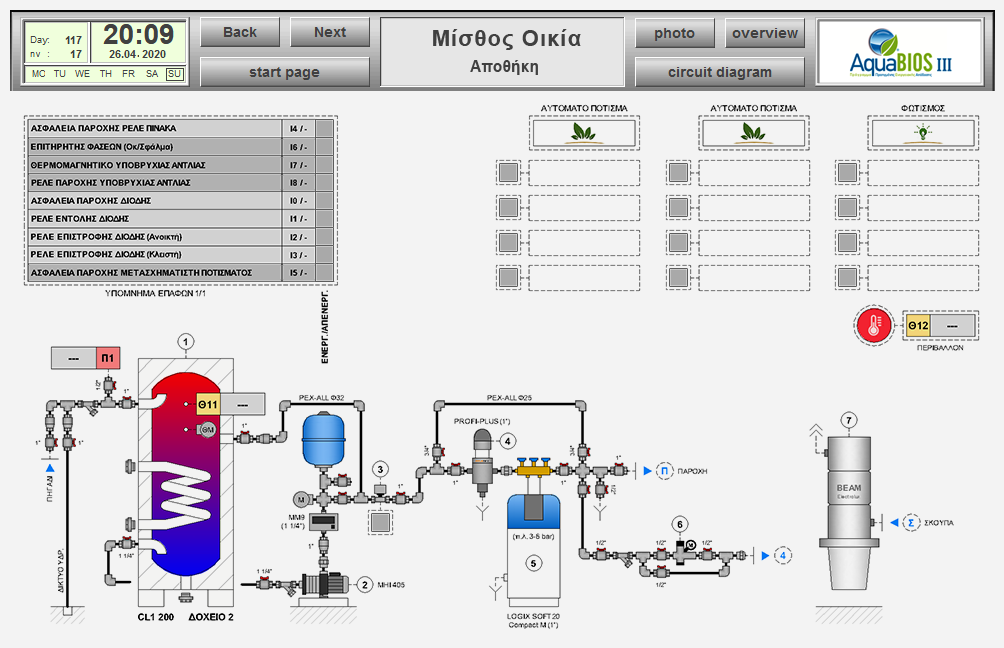
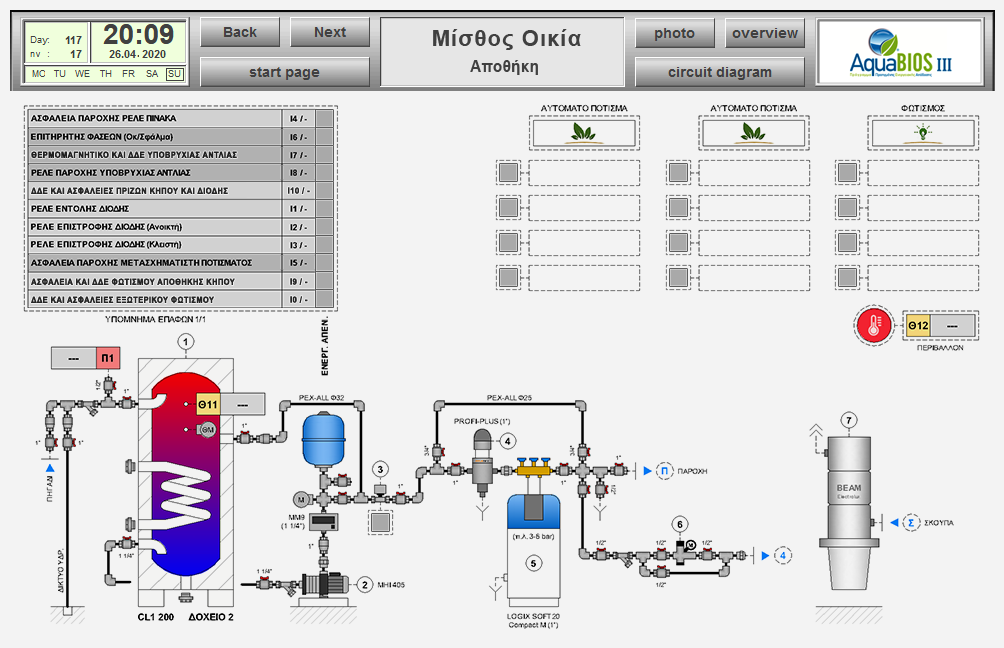
ADD DDE

Changed region(s): [[0.0, 0.1543, 0.3396, 0.5864]]

diff --git a/misthos/mhxanostasio.html b/misthos/mhxanostasio.html
@@ -297,83 +297,91 @@
         <img class="custom_image" src="images/ledGrey.png">
         <img class="custom_image" src="images/ledGreen.png">
     </div>
+    <div class="custom_image_onoff" data-comname="m_pinak_i37" style="left: 317px; top: 301px;">
+        <img class="custom_image" src="images/ledRed.png">
+        <img class="custom_image" src="images/ledGreen.png">
+    </div>
+    <div class="custom_image_onoff" data-comname="m_pinak_i38" style="left: 317px; top: 319px;">
+        <img class="custom_image" src="images/ledRed.png">
+        <img class="custom_image" src="images/ledGreen.png">
+    </div>
 
     <!-- PINAKAS 2 MHXANOSTASIO -->
-    <div class="custom_image_onoff" data-comname="m_pinak_i20" style="left: 317px; top: 334px;">
+    <div class="custom_image_onoff" data-comname="m_pinak_i20" style="left: 317px; top: 367px;">
         <img class="custom_image" src="images/ledRed.png">
         <img class="custom_image" src="images/ledGreen.png">
     </div>
-    <div class="custom_image_onoff" data-comname="m_pinak_i21" style="left: 317px; top: 352px;">
+    <div class="custom_image_onoff" data-comname="m_pinak_i21" style="left: 317px; top: 385px;">
         <img class="custom_image" src="images/ledRed.png">
         <img class="custom_image" src="images/ledGreen.png">
     </div>
-    <div class="custom_image_onoff" data-comname="m_pinak_i22" style="left: 317px; top: 370px;">
+    <div class="custom_image_onoff" data-comname="m_pinak_i22" style="left: 317px; top: 403px;">
         <img class="custom_image" src="images/ledRed.png">
         <img class="custom_image" src="images/ledGreen.png">
     </div>
-    <div class="custom_image_onoff" data-comname="m_pinak_i23" style="left: 317px; top: 388px;">
+    <div class="custom_image_onoff" data-comname="m_pinak_i23" style="left: 317px; top: 421px;">
         <img class="custom_image" src="images/ledGrey.png">
         <img class="custom_image" src="images/ledGreen.png">
     </div>
-    <div class="custom_image_onoff" data-comname="m_pinak_i36" style="left: 317px; top: 406px;">
+    <div class="custom_image_onoff" data-comname="m_pinak_i36" style="left: 317px; top: 439px;">
         <img class="custom_image" src="images/ledRed.png">
         <img class="custom_image" src="images/ledGreen.png">
     </div>
-    <div class="custom_image_onoff" data-comname="m_pinak_i28" style="left: 317px; top: 424px;">
+    <div class="custom_image_onoff" data-comname="m_pinak_i28" style="left: 317px; top: 457px;">
         <img class="custom_image" src="images/ledRed.png">
         <img class="custom_image" src="images/ledGreen.png">
     </div>
-    <div class="custom_image_onoff" data-comname="m_pinak_i31" style="left: 317px; top: 442px;">
+    <div class="custom_image_onoff" data-comname="m_pinak_i31" style="left: 317px; top: 475px;">
         <img class="custom_image" src="images/ledGrey.png">
         <img class="custom_image" src="images/ledGreen.png">
     </div>
-    <div class="custom_image_onoff" data-comname="m_pinak_i32" style="left: 317px; top: 460px;">
+    <div class="custom_image_onoff" data-comname="m_pinak_i32" style="left: 317px; top: 493px;">
         <img class="custom_image" src="images/ledRed.png">
         <img class="custom_image" src="images/ledGreen.png">
     </div>
-    <div class="custom_image_onoff" data-comname="m_pinak_i35" style="left: 317px; top: 478px;">
+    <div class="custom_image_onoff" data-comname="m_pinak_i35" style="left: 317px; top: 511px;">
         <img class="custom_image" src="images/ledGrey.png">
         <img class="custom_image" src="images/ledGreen.png">
     </div>
-    <div class="custom_image_onoff" data-comname="m_pinak_i24" style="left: 317px; top: 496px;">
+    <div class="custom_image_onoff" data-comname="m_pinak_i24" style="left: 317px; top: 529px;">
         <img class="custom_image" src="images/ledRed.png">
         <img class="custom_image" src="images/ledGreen.png">
     </div>
-    <div class="custom_image_onoff" data-comname="m_pinak_i27" style="left: 317px; top: 514px;">
+    <div class="custom_image_onoff" data-comname="m_pinak_i27" style="left: 317px; top: 547px;">
         <img class="custom_image" src="images/ledGrey.png">
         <img class="custom_image" src="images/ledGreen.png">
     </div>
 
     <!-- PINAKAS 3 MHXANOSTASIO -->
-    <div class="custom_image_onoff" data-comname="m_pinak_i6" style="left: 317px; top: 561px;">
+    <div class="custom_image_onoff" data-comname="m_pinak_i6" style="left: 317px; top: 594px;">
         <img class="custom_image" src="images/ledRed.png">
         <img class="custom_image" src="images/ledGreen.png">
     </div>
-    <div class="custom_image_onoff" data-comname="m_pinak_i7" style="left: 317px; top: 579px;">
+    <div class="custom_image_onoff" data-comname="m_pinak_i7" style="left: 317px; top: 612px;">
         <img class="custom_image" src="images/ledGrey.png">
         <img class="custom_image" src="images/ledGreen.png">
     </div>
-    <div class="custom_image_onoff" data-comname="m_pinak_i8" style="left: 317px; top: 597px;">
+    <div class="custom_image_onoff" data-comname="m_pinak_i8" style="left: 317px; top: 630px;">
         <img class="custom_image" src="images/ledGrey.png">
         <img class="custom_image" src="images/ledGreen.png">
     </div>
-    <div class="custom_image_onoff" data-comname="m_pinak_i9" style="left: 317px; top: 615px;">
+    <div class="custom_image_onoff" data-comname="m_pinak_i9" style="left: 317px; top: 648px;">
         <img class="custom_image" src="images/ledGrey.png">
         <img class="custom_image" src="images/ledGreen.png">
     </div>
-    <div class="custom_image_onoff" data-comname="m_pinak_i10" style="left: 317px; top: 633px;">
+    <div class="custom_image_onoff" data-comname="m_pinak_i10" style="left: 317px; top: 666px;">
         <img class="custom_image" src="images/ledGrey.png">
         <img class="custom_image" src="images/ledGreen.png">
     </div>
-    <div class="custom_image_onoff" data-comname="m_pinak_i11" style="left: 317px; top: 651px;">
+    <div class="custom_image_onoff" data-comname="m_pinak_i11" style="left: 317px; top: 684px;">
         <img class="custom_image" src="images/ledGrey.png">
         <img class="custom_image" src="images/ledGreen.png">
     </div>
-    <div class="custom_image_onoff" data-comname="m_pinak_i12" style="left: 317px; top: 669px;">
+    <div class="custom_image_onoff" data-comname="m_pinak_i12" style="left: 317px; top: 702px;">
         <img class="custom_image" src="images/ledGrey.png">
         <img class="custom_image" src="images/ledGreen.png">
     </div>
-    <div class="custom_image_onoff" data-comname="m_pinak_i13" style="left: 317px; top: 687px;">
+    <div class="custom_image_onoff" data-comname="m_pinak_i13" style="left: 317px; top: 720px;">
         <img class="custom_image" src="images/ledGrey.png">
         <img class="custom_image" src="images/ledGreen.png">
     </div>

diff --git a/misthos/parametroi.html b/misthos/parametroi.html
@@ -255,35 +255,35 @@
                         <p>Διαφορικό σημείου λειτουργίας θερμοστάτη και εσωτερικής μονάδας</p>
                         <input data-comname="p_idu_dtH" class="custom_value_send" type="text" value="1"><label>oC, dT REGEL με IDU Θέρμανση (SP idu = SP regel + dt)</label><br>
                         <input data-comname="p_idu_dtC" class="custom_value_send" type="text" value="2"><label>oC, dT REGEL με IDU Ψύξη (SP idu = SP regel - dt)</label><br>
-                        <p>Στοιχεία λειτουργίας εσωτερικής μονάδας 1</p>
+                        <p>Στοιχεία λειτουργίας εσωτερικής μονάδας 1 - ΥΠΟΓΕΙΟ Υ/Δ</p>
                         <input data-comname="p_idu1_room_temp" class="custom_value_display" type="text" disabled><label>oC, IDU 1 Αισθητήριο θερμοκρασίας χώρου</label><br>
                         <input data-comname="p_idu1_refr_inlet" class="custom_value_display" type="text" disabled><label>oC, IDU 1 Είσοδος ψυκτικού</label><br>
                         <input data-comname="p_idu1_refr_outlet" class="custom_value_display" type="text" disabled><label>oC, IDU 1 Εξοδος ψυκτικού</label><br>
-                        <p>Στοιχεία λειτουργίας εσωτερικής μονάδας 2</p>
+                        <p>Στοιχεία λειτουργίας εσωτερικής μονάδας 2 - ΥΠΟΓΕΙΟ ΓΡΑΦΕΙΟ</p>
                         <input data-comname="p_idu2_room_temp" class="custom_value_display" type="text" disabled><label>oC, IDU 2 Αισθητήριο θερμοκρασίας χώρου</label><br>
                         <input data-comname="p_idu2_refr_inlet" class="custom_value_display" type="text" disabled><label>oC, IDU 2 Είσοδος ψυκτικού</label><br>
                         <input data-comname="p_idu2_refr_outlet" class="custom_value_display" type="text" disabled><label>oC, IDU 2 Εξοδος ψυκτικού</label><br>
-                        <p>Στοιχεία λειτουργίας εσωτερικής μονάδας 3</p>
+                        <p>Στοιχεία λειτουργίας εσωτερικής μονάδας 3 - ΥΠΟΓΕΙΟ ΣΑΛΟΝΙ</p>
                         <input data-comname="p_idu3_room_temp" class="custom_value_display" type="text" disabled><label>oC, IDU 3 Αισθητήριο θερμοκρασίας χώρου</label><br>
                         <input data-comname="p_idu3_refr_inlet" class="custom_value_display" type="text" disabled><label>oC, IDU 3 Είσοδος ψυκτικού</label><br>
                         <input data-comname="p_idu3_refr_outlet" class="custom_value_display" type="text" disabled><label>oC, IDU 3 Εξοδος ψυκτικού</label><br>
-                        <p>Στοιχεία λειτουργίας εσωτερικής μονάδας 4</p>
+                        <p>Στοιχεία λειτουργίας εσωτερικής μονάδας 4 - ΙΣΟΓΕΙΟ ΚΟΥΖΙΝΑ</p>
                         <input class="custom_value_display_neutral" type="text" value="--" disabled><label>oC, IDU 4 Αισθητήριο θερμοκρασίας χώρου</label><br>
                         <input class="custom_value_display_neutral" type="text" value="--" disabled><label>oC, IDU 4 Είσοδος ψυκτικού</label><br>
                         <input class="custom_value_display_neutral" type="text" value="--" disabled><label>oC, IDU 4 Εξοδος ψυκτικού</label><br>
-                        <p>Στοιχεία λειτουργίας εσωτερικής μονάδας 5</p>
+                        <p>Στοιχεία λειτουργίας εσωτερικής μονάδας 5 - ΙΣΟΓΕΙΟ ΣΑΛΟΝΙ</p>
                         <input class="custom_value_display_neutral" type="text" value="--" disabled><label>oC, IDU 5 Αισθητήριο θερμοκρασίας χώρου</label><br>
                         <input class="custom_value_display_neutral" type="text" value="--" disabled><label>oC, IDU 5 Είσοδος ψυκτικού</label><br>
                         <input class="custom_value_display_neutral" type="text" value="--" disabled><label>oC, IDU 5 Εξοδος ψυκτικού</label><br>
-                        <p>Στοιχεία λειτουργίας εσωτερικής μονάδας 6</p>
+                        <p>Στοιχεία λειτουργίας εσωτερικής μονάδας 6 - ΟΡΟΦΟΣ Υ/Δ Β/Δ</p>
                         <input class="custom_value_display_neutral" type="text" value="--" disabled><label>oC, IDU 6 Αισθητήριο θερμοκρασίας χώρου</label><br>
                         <input class="custom_value_display_neutral" type="text" value="--" disabled><label>oC, IDU 6 Είσοδος ψυκτικού</label><br>
                         <input class="custom_value_display_neutral" type="text" value="--" disabled><label>oC, IDU 6 Εξοδος ψυκτικού</label><br>
-                        <p>Στοιχεία λειτουργίας εσωτερικής μονάδας 7</p>
+                        <p>Στοιχεία λειτουργίας εσωτερικής μονάδας 7 - ΟΡΟΦΟΣ Υ/Δ Β/Α</p>
                         <input class="custom_value_display_neutral" type="text" value="--" disabled><label>oC, IDU 7 Αισθητήριο θερμοκρασίας χώρου</label><br>
                         <input class="custom_value_display_neutral" type="text" value="--" disabled><label>oC, IDU 7 Είσοδος ψυκτικού</label><br>
                         <input class="custom_value_display_neutral" type="text" value="--" disabled><label>oC, IDU 7 Εξοδος ψυκτικού</label><br>
-                        <p>Στοιχεία λειτουργίας εσωτερικής μονάδας 8</p>
+                        <p>Στοιχεία λειτουργίας εσωτερικής μονάδας 8 - ΟΡΟΦΟΣ Υ/Δ Ν/Α</p>
                         <input class="custom_value_display_neutral" type="text" value="--" disabled><label>oC, IDU 8 Αισθητήριο θερμοκρασίας χώρου</label><br>
                         <input class="custom_value_display_neutral" type="text" value="--" disabled><label>oC, IDU 8 Είσοδος ψυκτικού</label><br>
                         <input class="custom_value_display_neutral" type="text" value="--" disabled><label>oC, IDU 8 Εξοδος ψυκτικού</label><br>

diff --git a/misthos/src/logikh.js b/misthos/src/logikh.js
@@ -6513,6 +6513,56 @@ graph.add(pinakes_PropSendBoolean00VI13);
 pinakes_LocalReadReg00VI13.connect(0, pinakes_Num2Bool00VI13, 0);
 pinakes_Num2Bool00VI13.connect(0, pinakes_Not00VI13, 0);
 pinakes_Not00VI13.connect(0, pinakes_PropSendBoolean00VI13, 0);
+
+// PINAKAS NVI37
+let pinakes_yOffsetNVI37 = 800;
+
+let pinakes_LocalReadReg00NVI37 = LiteGraph.createNode("Deos/LocalReadReg");
+pinakes_LocalReadReg00NVI37.pos = [pinakesPosition.x,pinakesPosition.y+pinakes_yOffsetNVI37+pinakas03Y];
+pinakes_LocalReadReg00NVI37.init(database_BusReadAllTRG00, "S41:R105");
+graph.add(pinakes_LocalReadReg00NVI37);
+
+let pinakes_Num2Bool00NVI37 = LiteGraph.createNode("Deos/Num2Bool");
+pinakes_Num2Bool00NVI37.pos = [pinakesPosition.x+200,pinakesPosition.y+pinakes_yOffsetNVI37+pinakas03Y];
+graph.add(pinakes_Num2Bool00NVI37);
+
+let pinakes_Not00NVI37 = LiteGraph.createNode("Deos/Not");
+pinakes_Not00NVI37.pos = [pinakesPosition.x+400,pinakesPosition.y+pinakes_yOffsetNVI37+pinakas03Y];
+graph.add(pinakes_Not00NVI37);
+
+let pinakes_PropSendBoolean00NVI37 = LiteGraph.createNode("Deos/PropSendBoolean");
+pinakes_PropSendBoolean00NVI37.pos = [pinakesPosition.x+560,pinakesPosition.y+pinakes_yOffsetNVI37+pinakas03Y];
+pinakes_PropSendBoolean00NVI37.init(broadcastDeosHandle, "m_pinak_i37");
+graph.add(pinakes_PropSendBoolean00NVI37);
+
+pinakes_LocalReadReg00NVI37.connect(0, pinakes_Num2Bool00NVI37, 0);
+pinakes_Num2Bool00NVI37.connect(0, pinakes_Not00NVI37, 0);
+pinakes_Not00NVI37.connect(0, pinakes_PropSendBoolean00NVI37, 0);
+
+// PINAKAS NVI38
+let pinakes_yOffsetNVI38 = 900;
+
+let pinakes_LocalReadReg00NVI38 = LiteGraph.createNode("Deos/LocalReadReg");
+pinakes_LocalReadReg00NVI38.pos = [pinakesPosition.x,pinakesPosition.y+pinakes_yOffsetNVI38+pinakas03Y];
+pinakes_LocalReadReg00NVI38.init(database_BusReadAllTRG00, "S41:R106");
+graph.add(pinakes_LocalReadReg00NVI38);
+
+let pinakes_Num2Bool00NVI38 = LiteGraph.createNode("Deos/Num2Bool");
+pinakes_Num2Bool00NVI38.pos = [pinakesPosition.x+200,pinakesPosition.y+pinakes_yOffsetNVI38+pinakas03Y];
+graph.add(pinakes_Num2Bool00NVI38);
+
+let pinakes_Not00NVI38 = LiteGraph.createNode("Deos/Not");
+pinakes_Not00NVI38.pos = [pinakesPosition.x+400,pinakesPosition.y+pinakes_yOffsetNVI38+pinakas03Y];
+graph.add(pinakes_Not00NVI38);
+
+let pinakes_PropSendBoolean00NVI38 = LiteGraph.createNode("Deos/PropSendBoolean");
+pinakes_PropSendBoolean00NVI38.pos = [pinakesPosition.x+560,pinakesPosition.y+pinakes_yOffsetNVI38+pinakas03Y];
+pinakes_PropSendBoolean00NVI38.init(broadcastDeosHandle, "m_pinak_i38");
+graph.add(pinakes_PropSendBoolean00NVI38);
+
+pinakes_LocalReadReg00NVI38.connect(0, pinakes_Num2Bool00NVI38, 0);
+pinakes_Num2Bool00NVI38.connect(0, pinakes_Not00NVI38, 0);
+pinakes_Not00NVI38.connect(0, pinakes_PropSendBoolean00NVI38, 0);
 //////////////////////////////////////////////////
 //#endregion MHXANOSTASIO PINAKES
 //////////////////////////////////////////////////
@@ -6813,6 +6863,56 @@ let khposPinak_Title00 = LiteGraph.createNode("Deos/Title");
 khposPinak_Title00.pos = [khposPinakPosition.x,khposPinakPosition.y+20];
 khposPinak_Title00.init("ΕΠΑΦΕΣ MODBUS ΠΡΟΣ ΠΙΝΑΚΑ ΚΗΠΟΥ ΚΑΙ ΤΙΜΕΣ.", 800);
 graph.add(khposPinak_Title00);
+
+//KHPOS I9
+let khposPinak_offsetY_i9 = 1300;
+
+let khposPinak_LocalReadRegN09 = LiteGraph.createNode("Deos/LocalReadReg");
+khposPinak_LocalReadRegN09.pos = [khposPinakPosition.x,khposPinakPosition.y+100+khposPinak_offsetY_i9];
+khposPinak_LocalReadRegN09.init(database_BusReadAllTRG00, "S42:R103");
+graph.add(khposPinak_LocalReadRegN09);
+
+let khposPinak_Num2BoolN09 = LiteGraph.createNode("Deos/Num2Bool");
+khposPinak_Num2BoolN09.pos = [khposPinakPosition.x+200,khposPinakPosition.y+100+khposPinak_offsetY_i9];
+graph.add(khposPinak_Num2BoolN09);
+
+let khposPinak_NotN09 = LiteGraph.createNode("Deos/Not");
+khposPinak_NotN09.pos = [khposPinakPosition.x+400,khposPinakPosition.y+100+khposPinak_offsetY_i9];
+graph.add(khposPinak_NotN09);
+
+let khposPinak_PropSendBooleanN09 = LiteGraph.createNode("Deos/PropSendBoolean");
+khposPinak_PropSendBooleanN09.pos = [khposPinakPosition.x+560,khposPinakPosition.y+100+khposPinak_offsetY_i9];
+khposPinak_PropSendBooleanN09.init(broadcastDeosHandle, "k_pinak_i9");
+graph.add(khposPinak_PropSendBooleanN09);
+
+khposPinak_LocalReadRegN09.connect(0, khposPinak_Num2BoolN09, 0);
+khposPinak_Num2BoolN09.connect(0, khposPinak_NotN09, 0);
+khposPinak_NotN09.connect(0, khposPinak_PropSendBooleanN09, 0);
+
+//KHPOS I10
+let khposPinak_offsetY_i10 = 1400;
+
+let khposPinak_LocalReadRegN10 = LiteGraph.createNode("Deos/LocalReadReg");
+khposPinak_LocalReadRegN10.pos = [khposPinakPosition.x,khposPinakPosition.y+100+khposPinak_offsetY_i10];
+khposPinak_LocalReadRegN10.init(database_BusReadAllTRG00, "S42:R104");
+graph.add(khposPinak_LocalReadRegN10);
+
+let khposPinak_Num2BoolN10 = LiteGraph.createNode("Deos/Num2Bool");
+khposPinak_Num2BoolN10.pos = [khposPinakPosition.x+200,khposPinakPosition.y+100+khposPinak_offsetY_i10];
+graph.add(khposPinak_Num2BoolN10);
+
+let khposPinak_NotN10 = LiteGraph.createNode("Deos/Not");
+khposPinak_NotN10.pos = [khposPinakPosition.x+400,khposPinakPosition.y+100+khposPinak_offsetY_i10];
+graph.add(khposPinak_NotN10);
+
+let khposPinak_PropSendBooleanN10 = LiteGraph.createNode("Deos/PropSendBoolean");
+khposPinak_PropSendBooleanN10.pos = [khposPinakPosition.x+560,khposPinakPosition.y+100+khposPinak_offsetY_i10];
+khposPinak_PropSendBooleanN10.init(broadcastDeosHandle, "k_pinak_i10");
+graph.add(khposPinak_PropSendBooleanN10);
+
+khposPinak_LocalReadRegN10.connect(0, khposPinak_Num2BoolN10, 0);
+khposPinak_Num2BoolN10.connect(0, khposPinak_NotN10, 0);
+khposPinak_NotN10.connect(0, khposPinak_PropSendBooleanN10, 0);
 
 //KHPOS I6
 let khposPinak_offsetY_i6 = 0;

diff --git a/misthos/khpos.html b/misthos/khpos.html
@@ -35,39 +35,47 @@
     <div class="custom_value_display" data-comname="k_outdoor_temp" style="left: 930px; top: 315px; width: 45px; height: 21px;"></div>
 
     <!-- IMAGES ON OFF -->
-    <div class="custom_image_onoff" data-comname="k_pinak_i4" style="left: 317px; top: 121px;">
+    <div class="custom_image_onoff" data-comname="k_pinak_i4" style="left: 317px; top: 111px;">
         <img class="custom_image" src="images/ledRed.png">
         <img class="custom_image" src="images/ledGreen.png">
     </div>
-    <div class="custom_image_onoff" data-comname="k_pinak_i6" style="left: 317px; top: 139px;">
+    <div class="custom_image_onoff" data-comname="k_pinak_i6" style="left: 317px; top: 129px;">
         <img class="custom_image" src="images/ledRed.png">
         <img class="custom_image" src="images/ledGreen.png">
     </div>
-    <div class="custom_image_onoff" data-comname="k_pinak_i7" style="left: 317px; top: 157px;">
+    <div class="custom_image_onoff" data-comname="k_pinak_i7" style="left: 317px; top: 147px;">
         <img class="custom_image" src="images/ledRed.png">
         <img class="custom_image" src="images/ledGreen.png">
     </div>
-    <div class="custom_image_onoff" data-comname="k_pinak_i8" style="left: 317px; top: 175px;">
+    <div class="custom_image_onoff" data-comname="k_pinak_i8" style="left: 317px; top: 165px;">
         <img class="custom_image" src="images/ledRed.png">
         <img class="custom_image" src="images/ledGreen.png">
     </div>
-    <div class="custom_image_onoff" data-comname="k_pinak_i0" style="left: 317px; top: 193px;">
+    <div class="custom_image_onoff" data-comname="k_pinak_i0" style="left: 317px; top: 291px;">
         <img class="custom_image" src="images/ledRed.png">
         <img class="custom_image" src="images/ledGreen.png">
     </div>
-    <div class="custom_image_onoff" data-comname="k_pinak_i1" style="left: 317px; top: 211px;">
+    <div class="custom_image_onoff" data-comname="k_pinak_i1" style="left: 317px; top: 201px;">
         <img class="custom_image" src="images/ledGrey.png">
         <img class="custom_image" src="images/ledGreen.png">
     </div>
-    <div class="custom_image_onoff" data-comname="k_pinak_i2" style="left: 317px; top: 229px;">
+    <div class="custom_image_onoff" data-comname="k_pinak_i2" style="left: 317px; top: 219px;">
         <img class="custom_image" src="images/ledGrey.png">
         <img class="custom_image" src="images/ledGreen.png">
     </div>
-    <div class="custom_image_onoff" data-comname="k_pinak_i3" style="left: 317px; top: 247px;">
+    <div class="custom_image_onoff" data-comname="k_pinak_i3" style="left: 317px; top: 237px;">
         <img class="custom_image" src="images/ledGrey.png">
         <img class="custom_image" src="images/ledGreen.png">
     </div>
-    <div class="custom_image_onoff" data-comname="k_pinak_i5" style="left: 317px; top: 265px;">
+    <div class="custom_image_onoff" data-comname="k_pinak_i5" style="left: 317px; top: 255px;">
+        <img class="custom_image" src="images/ledRed.png">
+        <img class="custom_image" src="images/ledGreen.png">
+    </div>
+    <div class="custom_image_onoff" data-comname="k_pinak_i9" style="left: 317px; top: 273px;">
+        <img class="custom_image" src="images/ledRed.png">
+        <img class="custom_image" src="images/ledGreen.png">
+    </div>
+    <div class="custom_image_onoff" data-comname="k_pinak_i10" style="left: 317px; top: 183px;">
         <img class="custom_image" src="images/ledRed.png">
         <img class="custom_image" src="images/ledGreen.png">
     </div>

diff --git a/misthos/src/thermostats.js b/misthos/src/thermostats.js
@@ -142,6 +142,10 @@ let g_RegMap =
         "102"   : [370, -100, 1800, 5, "data-ir", "(Θ8) ΘΕΡΜ ΚΟΛΛΕΚΤΕΡ ΕΠΙΣΤΡΟΦΗΣ ΕΝΔ ΥΠΟΓΕΙΟΥ (x/10 = οC)"],
         "103"   : [360, -100, 1800, 5, "data-ir", "(Θ9) ΘΕΡΜ ΚΟΛΛΕΚΤΕΡ ΕΠΙΣΤΡΟΦΗΣ ΕΝΔ ΙΣΟΓΕΙΟΥ (x/10 = οC)"],
         "104"   : [350, -100, 1800, 5, "data-ir", "(Θ10) ΘΕΡΜ ΚΟΛΛΕΚΤΕΡ ΕΠΙΣΤΡΟΦΗΣ ΕΝΔ ΟΡΟΦΟΥ (x/10 = οC)"],
+        
+        "105"   : [0, 0, 65535, 1, "data-ir", "(I37) ΑΣΦ ΚΑΙ ΔΔΕ ΦΩΤΙΣΜΟΥ ΜΗΧΑΝΟΣΤΑΣΙΟΥ (ON) (0 = Κλειστή Επ. 1 = Ανοιχτή Επ.)"],
+        "106"   : [0, 0, 65535, 1, "data-ir", "(I38) ΑΣΦ ΚΑΙ ΔΔΕ ΠΡΙΖΩΝ ΜΗΧΑΝΟΣΤΑΣΙΟΥ (ON) (0 = Κλειστή Επ. 1 = Ανοιχτή Επ.)"],
+
         "108"   : [0, 0, 65535, 1, "data-ir", "(I5) ΑΣΦ ΠΙΝΑΚΑ 2 (ΣΚΑΛΑΣ) (ON) (0 = Κλειστή Επ. 1 = Ανοιχτή Επ.)"],
         "109"   : [0, 0, 65535, 1, "data-ir", "(I6) ΑΣΦ+ΔΔΕ ΗΛΕΚ/ΘΕΡ. ΚΙΝΗΤΗΡΩΝ (ON) (0 = Κλειστή Επ. 1 = Ανοιχτή Επ.)"],
         "110"   : [0, 0, 65535, 1, "data-ir", "(I7) ΡΕΛΕ Η/Θ ΥΠΟΓΕΙΟ ΥΠΝΟΔΩΜΑΤΙΟ (ON) (0 = Κλειστή Επ. 1 = Ανοιχτή Επ.)"],
@@ -179,10 +183,14 @@ let g_RegMap =
         "100"   : [250, 0, 1000, 10, "data-ir", "(Π1) (0-10V) ΠΙΕΣΗ ΔΙΚΤΥΟΥ (x/100 = V)"],
         "101"   : [180, -100, 1800, 5, "data-ir", "(Θ11) ΘΕΡΜ ΔΙΚΤΥΟΥ (x/10 = οC)"],
         "102"   : [200, -100, 1800, 5, "data-ir", "(Θ12) ΘΕΡΜ ΠΕΡΙΒΑΛΛΟΝΤΟΣ (x/10 = οC)"],
+
+        "103"   : [0, 0, 65535, 1, "data-ir", "(I9) ΑΣΦ ΚΑΙ ΔΔΕ ΦΩΤΙΣΜΟΥ ΑΠΟΘΗΚΗΣ ΚΗΠΟΥ (ON) (0 = Κλειστή Επ. 1 = Ανοιχτή Επ.)"],
+        "104"   : [0, 0, 65535, 1, "data-ir", "(I10) ΑΣΦ ΚΑΙ ΔΔΕ ΠΡΙΖΩΝ ΚΗΠΟΥ ΚΑΙ ΔΙΟΔΗΣ (ON) (0 = Κλειστή Επ. 1 = Ανοιχτή Επ.)"],
+
         "105"   : [0, 0, 65535, 1, "data-ir", "(I6) ΕΠΙΤΗΡΗΤΗΣ ΦΑΣΕΩΝ (OΚ) (0 = Κλειστή Επ. 1 = Ανοιχτή Επ.)"],
-        "106"   : [0, 0, 65535, 1, "data-ir", "(I7) ΘΕΡΜ/ΜΑΓΝ. ΥΠΟΒΡΥΧΙΑΣ ΑΝΤΛΙΑΣ (ON) (0 = Κλειστή Επ. 1 = Ανοιχτή Επ.)"],
+        "106"   : [0, 0, 65535, 1, "data-ir", "(I7) ΘΕΡΜ/ΜΑΓΝ. + ΔΔΕ ΥΠΟΒΡΥΧΙΑΣ ΑΝΤΛΙΑΣ (ON) (0 = Κλειστή Επ. 1 = Ανοιχτή Επ.)"],
         "107"   : [0, 0, 65535, 1, "data-ir", "(I8) ΡΕΛΕ ΥΠΟΒΡΥΧΙΑΣ ΑΝΤΛΙΑΣ (ON) (0 = Κλειστή Επ. 1 = Ανοιχτή Επ.)"],
-        "108"   : [8, 0, 65535, 1, "data-ir", "DI (Ασφ.δίοδης (I0), Ρελέ εντ. δίοδης OPENNING (I1), Ρελέ επιστ. δίοδης OPEN (I2), Ρελέ επιστ. δίοδης CLOSE (I3), Ασφ. Ρελέ (I4), Ασφ. ΜΣΧ (I5)) (0 = Κλειστή Επ. 1 = Ανοιχτή Επ.)"],
+        "108"   : [8, 0, 65535, 1, "data-ir", "DI (ΔΔΕ+Ασφ.Εξωτ.Φωτισμ. (I0), Ρελέ εντ. δίοδης OPENNING (I1), Ρελέ επιστ. δίοδης OPEN (I2), Ρελέ επιστ. δίοδης CLOSE (I3), Ασφ. Ρελέ (I4), Ασφ. ΜΣΧ (I5)) (0 = Κλειστή Επ. 1 = Ανοιχτή Επ.)"],
         "109"   : [0, 0, 65535, 1, "", "Τρανζίστορ DO(Εντολή δίοδης, Εντολές ποτίσματος 1,2,3,4,5,6,7,8, Εντολές φωτισμού 1,2,3,4) (0 = Ενεργ. Trans. 1 = Απενεργ. Trans.)"]
     },
     "43" :
